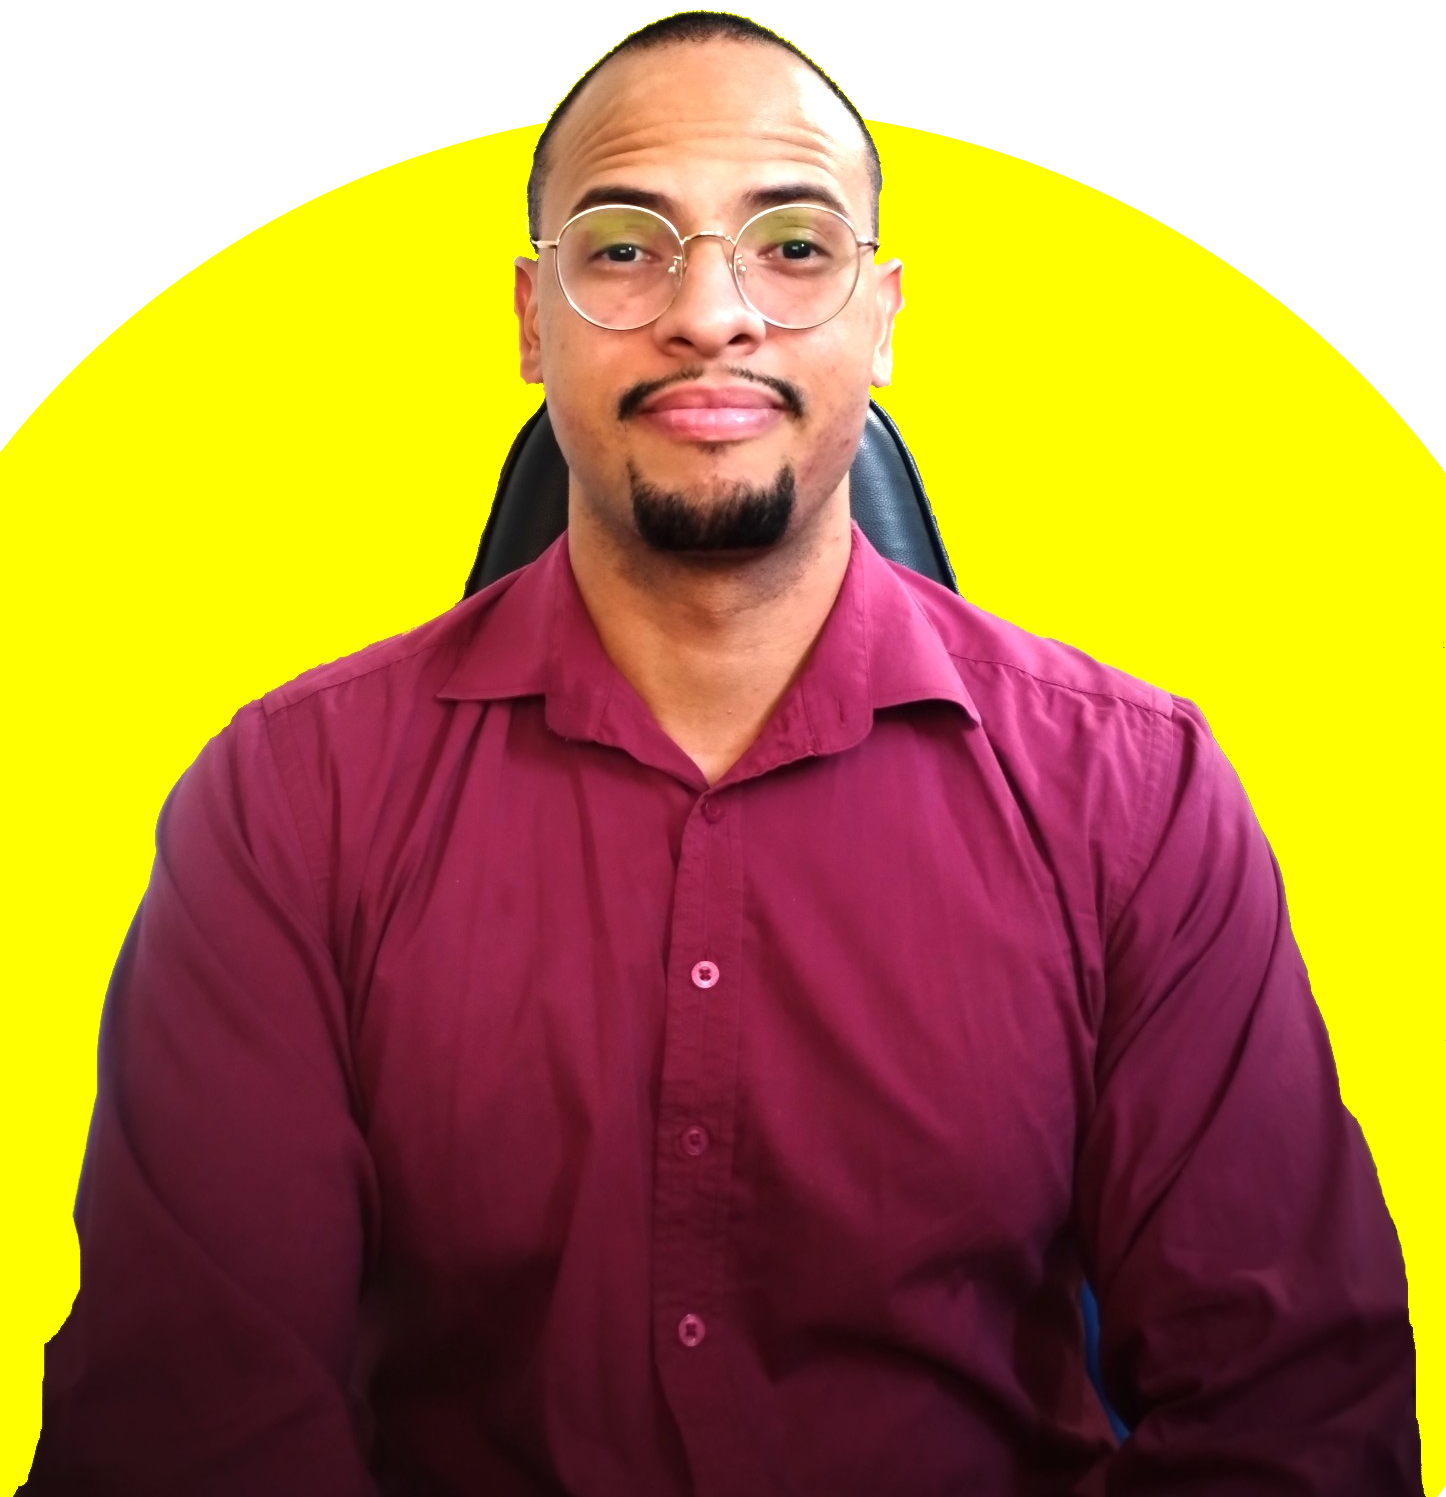
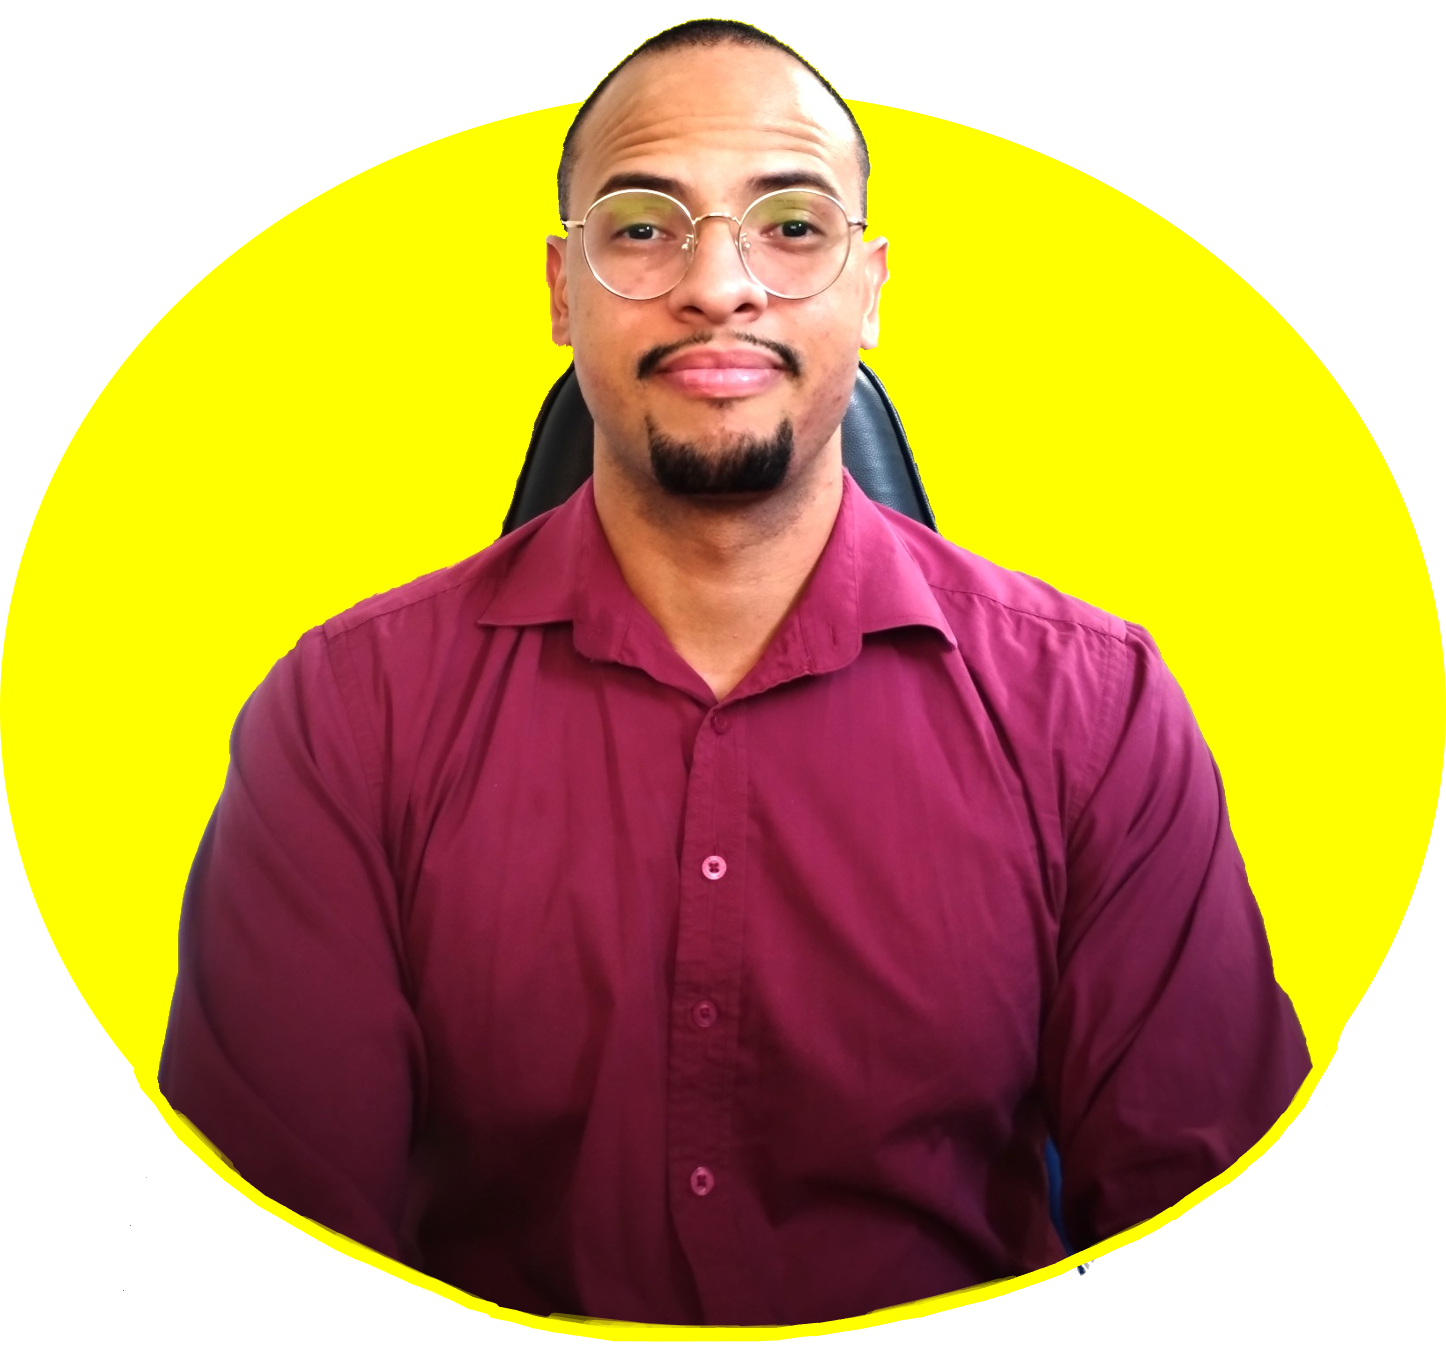
feat: new translations

diff --git a/src/app/[locale]/page.tsx b/src/app/[locale]/page.tsx
@@ -4,8 +4,11 @@ import styles from './page.module.css'
 import Header from '@/components/header';
 import AnimatedContainer from '@/components/animatedContainer';
 import PrimaryButton from '@/components/primaryButton';
+import { useTranslations } from 'next-intl';
  
 export default function Index() {
+  
+  const t = useTranslations('index');
 
   const handleScrollToSection = (id: string) => {
         const element = document.getElementById(id);
@@ -20,14 +23,14 @@ export default function Index() {
         <div>
             <p className={styles.first_name}>Lucas</p>
             <p className={styles.second_name}>Almeida</p>
-            <h2>Desenvolvedor Full-Stack</h2>
+            <h2>{t('Desenvolvedor Full-Stack')}</h2>
             <div className={styles.button_container}>
-               <PrimaryButton buttonFunction={() => handleScrollToSection('contact')} title='Entrar em Contato' />
+               <PrimaryButton buttonFunction={() => handleScrollToSection('contact')} title={t('Entrar em Contato')} />
             </div>
         </div>
         <div className={styles.profile_picture}>
           <AnimatedContainer>
-          <Image style={{borderRadius: '15vh'}} width={430} height={500} src={'/assets/images/lucas_perfil.png'} alt={'profile'} />
+          <Image width={430} height={500} src={'/assets/images/lucas_perfil.png'} alt={'profile'} />
           </AnimatedContainer>
         </div>
       </div>

diff --git a/src/components/primaryButton/primaryButton.module.css b/src/components/primaryButton/primaryButton.module.css
@@ -12,7 +12,8 @@
     transition: background-size 0.5s ease;
 }
 .title {
-    color: black
+    color: black;
+    font-family: 'Segoe UI', Tahoma, Geneva, Verdana, sans-serif;
 }
 
 .container:hover {
